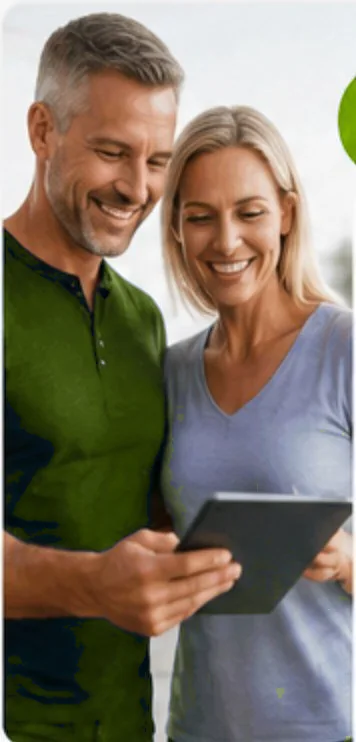
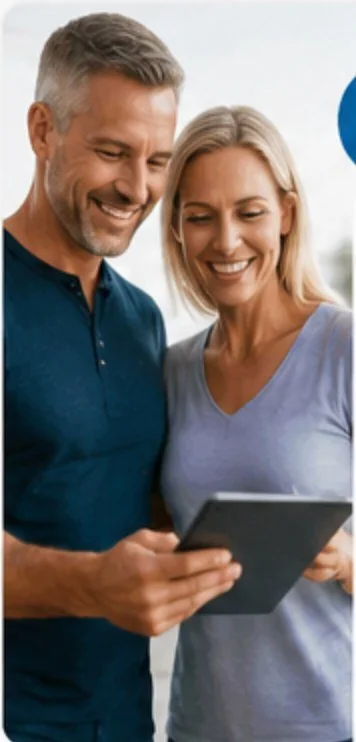
Homepage round two: Defined imagery, EoS goal tiles, no member bonus
Hero and the "only as good as your body" panel now show members training
at a Defined Fitness club instead of the club wall and a cycle class. The
hero photo sits in the right of the frame, feathered into the dark ground,
and loads eagerly since it is the largest paint on the page.

How it Works: 01 uses the Apex doctor collage, 02 the Apex MD blood tubes,
04 the EoS trainer photo retitled "Train at Defined". Its description was
SPENGA's spin/strength/yoga class copy, which is wrong for Defined.

The goal tiles now mirror the EoS build — portrait lifestyle photos with
the product-bottle corner art — and the DF360 Member Bonus block is gone
from both renderings.

Green leftovers: the TRT hero was the SPENGA-green edit (replaced with the
red original from Apex Source Content), and the product composite carried
green capsules.

diff --git a/index.html b/index.html
@@ -13,12 +13,12 @@
 <meta property="og:title" content="Get more from every workout — Defined Fitness member health, powered by Apex MD">
 <meta property="og:description" content="Training is only half the equation. Book your full biomarker panel at your Defined Fitness club and get physician-guided care at exclusive Defined Fitness member pricing.">
 <meta property="og:url" content="https://df360.apexmd.com/">
-<meta property="og:image" content="https://df360.apexmd.com/img/df360/c1.webp">
+<meta property="og:image" content="https://df360.apexmd.com/img/df360/hero-woman.webp">
 <meta property="og:image:alt" content="A DF360 spin class in session">
 <meta name="twitter:card" content="summary_large_image">
 <meta name="twitter:title" content="Get more from every workout — Defined Fitness member health, powered by Apex MD">
 <meta name="twitter:description" content="Book your full biomarker panel at your Defined Fitness club. Physician-guided programs at exclusive Defined Fitness member pricing.">
-<meta name="twitter:image" content="https://df360.apexmd.com/img/df360/c1.webp">
+<meta name="twitter:image" content="https://df360.apexmd.com/img/df360/hero-woman.webp">
 <link rel="preconnect" href="https://fonts.googleapis.com">
 <link rel="preconnect" href="https://fonts.gstatic.com" crossorigin>
 <link rel="stylesheet" href="https://fonts.googleapis.com/css2?family=Archivo:wght@400;500;600;700;800&display=swap">
@@ -53,8 +53,8 @@ height="0" width="0" style="display:none;visibility:hidden"></iframe></noscript>
         </div>
 
         <div style="position:relative;min-height:760px;background:#101010;overflow:hidden">
-          <div style="position:absolute;inset:0">
-            <img src="img/df360/c1.webp" alt="The Defined Fitness club wall" style="width:100%;height:100%;filter:contrast(1.06) saturate(1.02) brightness(.64);object-fit:cover" loading="lazy" decoding="async" width="1254" height="1254">
+          <div style="position:absolute;top:0;bottom:0;right:0;left:28%;-webkit-mask-image:linear-gradient(90deg,transparent 0,#000 26%);mask-image:linear-gradient(90deg,transparent 0,#000 26%)">
+            <img src="img/df360/hero-woman.webp" alt="A member training at Defined Fitness" style="width:100%;height:100%;object-position:50% 62%;filter:contrast(1.06) saturate(1.02) brightness(.64);object-fit:cover" loading="eager" fetchpriority="high" decoding="async" width="1254" height="1254">
           </div>
           <div style="position:absolute;inset:0;background:linear-gradient(90deg,rgba(8,10,12,.86) 0%,rgba(8,10,12,.64) 46%,rgba(8,10,12,.04) 100%);pointer-events:none"></div>
           <div style="position:relative;padding:72px 64px 68px;max-width:900px;color:#F5F2ED">
@@ -115,7 +115,7 @@ height="0" width="0" style="display:none;visibility:hidden"></iframe></noscript>
 
         <!-- then, the problem -->
         <div style="position:relative;background:#101010;color:#F5F2ED;border-top:2px solid var(--color-divider);overflow:hidden">
-          <img src="img/df360/c7.webp" alt="A cycle class at Defined Fitness" style="position:absolute;inset:0;width:100%;height:100%;object-fit:cover;object-position:72% 40%" loading="lazy" decoding="async" width="1200" height="1200">
+          <img src="img/df360/woman-trainer.webp" alt="A member training with a coach at Defined Fitness" style="position:absolute;inset:0;width:100%;height:100%;object-fit:cover;object-position:78% 35%" loading="lazy" decoding="async" width="1200" height="1200">
           <div style="position:absolute;inset:0;background:linear-gradient(90deg,#101010 0%,#101010 40%,rgba(13,16,19,.58) 52%,rgba(13,16,19,0) 66%)"></div>
           <div style="position:relative;padding:64px 64px 60px;max-width:56%">
             <span style="display:block;font-size:13px;font-weight:800;letter-spacing:.16em;text-transform:uppercase;color:#FF3B4A;margin-bottom:8px">Then — the problem</span>
@@ -320,53 +320,6 @@ height="0" width="0" style="display:none;visibility:hidden"></iframe></noscript>
               </div>
             </div>
           </div>
-        </div><div style="padding:76px 64px 72px;background:#010409;color:#F5F2ED;border-top:2px solid var(--color-divider)">
-          <div style="display:grid;grid-template-columns:minmax(0,1fr) minmax(0,1.15fr);gap:56px;align-items:start">
-            <div style="position:relative;padding-bottom:24px">
-              <img src="img/product/phone-biomarkers.webp" alt="Apex MD member portal" style="position:absolute;right:-16px;bottom:0;width:46%;height:auto;z-index:0;pointer-events:none" loading="lazy" decoding="async" width="715" height="900">
-              <div style="position:relative;z-index:1;max-width:56%"><img src="img/df360/logo-df360-white.webp" alt="DF360" style="display:block;width:100%;max-width:260px;height:auto;margin-bottom:26px" loading="lazy" decoding="async" width="600" height="66">
-              <span style="display:block;font-size:12px;font-weight:800;letter-spacing:.16em;text-transform:uppercase;color:#DE192C;margin-bottom:12px">Special bonus</span>
-              <h2 style="margin:0 0 20px;font-size:48px;font-weight:800;line-height:1.02;letter-spacing:-.03em;text-transform:uppercase">DF360<br>Member<br><span style="color:#DE192C">Bonus</span></h2>
-              <p style="margin:0 0 30px;font-size:18px;line-height:1.55;color:#D9D9D9">An AI-powered portal and a medical concierge specialist, together — to answer your questions and guide you to the right wellness solution.</p>
-              <a href="https://formdefined.apexmd.com/?categoryId=bloodwork" data-intake="body-scan" class="btn btn-primary" style="min-height:52px;padding:0 26px;font-size:16px">Claim the member bonus →</a>
-              <p style="margin:16px 0 0;font-size:13px;color:#8C8C8C">Exclusive bonus for Defined Fitness members.</p>
-              </div>
-            </div>
-            <div style="display:grid;grid-template-columns:1fr 1fr;gap:18px">
-              <div style="position:relative;background:#010409;border:2px solid #1A1A1A;overflow:hidden;min-height:300px">
-                <img src="img/product/phone-biomarkers.webp" alt="The Apex MD biomarker dashboard on a phone" style="position:absolute;right:0;top:0;height:100%;width:52%;object-fit:cover;object-position:center" loading="lazy" decoding="async" width="522" height="750">
-                <div style="position:relative;padding:26px 24px;display:flex;flex-direction:column;gap:12px;max-width:58%">
-                  <span style="font-size:19px;font-weight:800;letter-spacing:-.02em;color:#DE192C;font-variant-numeric:tabular-nums">01</span>
-                  <span style="font-size:20px;font-weight:800;letter-spacing:-.02em;line-height:1.2;color:#F5F2ED">AI-powered portal</span>
-                  <span style="font-size:14.5px;line-height:1.55;color:#D9D9D9">Ask a question and get an answer in real time, built on what your own labs and history show.</span>
-                </div>
-              </div>
-              <div style="position:relative;background:#010409;border:2px solid #1A1A1A;overflow:hidden;min-height:300px">
-                <img src="img/df360/c6-visit.webp" alt="A telehealth visit with an Apex MD provider" style="position:absolute;right:0;top:0;height:100%;width:52%;object-fit:cover;object-position:center" loading="lazy" decoding="async" width="522" height="750">
-                <div style="position:relative;padding:26px 24px;display:flex;flex-direction:column;gap:12px;max-width:58%">
-                  <span style="font-size:19px;font-weight:800;letter-spacing:-.02em;color:#DE192C;font-variant-numeric:tabular-nums">02</span>
-                  <span style="font-size:20px;font-weight:800;letter-spacing:-.02em;line-height:1.2;color:#F5F2ED">Medical concierge specialist</span>
-                  <span style="font-size:14.5px;line-height:1.55;color:#D9D9D9">A real person who answers questions and points you to the right wellness solution.</span>
-                </div>
-              </div>
-              <div style="position:relative;background:#010409;border:2px solid #1A1A1A;overflow:hidden;min-height:300px">
-                <img src="img/df360/collection-kit.webp" alt="Apex MD blood collection kit" style="position:absolute;right:0;top:0;height:100%;width:52%;object-fit:cover;object-position:center" loading="lazy" decoding="async" width="522" height="766">
-                <div style="position:relative;padding:26px 24px;display:flex;flex-direction:column;gap:12px;max-width:58%">
-                  <span style="font-size:19px;font-weight:800;letter-spacing:-.02em;color:#DE192C;font-variant-numeric:tabular-nums">03</span>
-                  <span style="font-size:20px;font-weight:800;letter-spacing:-.02em;line-height:1.2;color:#F5F2ED">Upload your bloodwork</span>
-                  <span style="font-size:14.5px;line-height:1.55;color:#D9D9D9">Add labs and medical history to the portal and get answers about what they mean.</span>
-                </div>
-              </div>
-              <div style="position:relative;background:#010409;border:2px solid #1A1A1A;overflow:hidden;min-height:300px">
-                <img src="img/df360/a9-kitchen.webp" alt="Planning meals at home" style="position:absolute;right:0;top:0;height:100%;width:52%;object-fit:cover;object-position:center" loading="lazy" decoding="async" width="522" height="766">
-                <div style="position:relative;padding:26px 24px;display:flex;flex-direction:column;gap:12px;max-width:58%">
-                  <span style="font-size:19px;font-weight:800;letter-spacing:-.02em;color:#DE192C;font-variant-numeric:tabular-nums">04</span>
-                  <span style="font-size:20px;font-weight:800;letter-spacing:-.02em;line-height:1.2;color:#F5F2ED">Action plans</span>
-                  <span style="font-size:14.5px;line-height:1.55;color:#D9D9D9">Fitness, supplementation and nutrition plans that come back to you, not a generic template.</span>
-                </div>
-              </div>
-            </div>
-          </div>
         </div>
 
         <!-- the path -->
@@ -376,7 +329,7 @@ height="0" width="0" style="display:none;visibility:hidden"></iframe></noscript>
           
           <h2 style="margin:0 auto 48px;text-align:center;font-size:52px;font-weight:800;line-height:1.03;letter-spacing:-.03em;text-transform:uppercase;max-width:34ch">How it Works</h2><div style="display:grid;grid-template-columns:1fr auto 1fr auto 1fr auto 1fr auto 1fr;gap:0 20px;align-items:start;padding-top:26px;border-top:2px solid var(--color-divider)">
               <div style="display:flex;flex-direction:column;gap:12px">
-                <img src="img/df360/collection-kit.webp" alt="Apex MD blood collection kit" style="display:block;width:100%;height:150px;object-fit:cover;margin-bottom:4px" loading="lazy" decoding="async" width="1200" height="785">
+                <img src="img/hp/step-collage.webp" alt="Apex MD physicians, products and the member portal" style="display:block;width:100%;height:150px;object-fit:cover;object-position:50% 40%;margin-bottom:4px" loading="lazy" decoding="async" width="1200" height="785">
                 <span style="font-size:12px;font-weight:800;letter-spacing:.14em;text-transform:uppercase;color:#DE192C">01 — TEST &amp; OR ORDER&nbsp;</span>
                 <span style="display:block;width:30px;height:4px;background:#DE192C"></span>
                 <span style="font-size:21px;font-weight:800;letter-spacing:-.02em;line-height:1.2">Purchase Apex MD Product or Service&nbsp;</span><span style="font-size:14.5px;line-height:1.55;color:#3A3A3A">Purchase peptides and or labs&nbsp; for testosterone, hormones or health optimization</span>
@@ -384,7 +337,7 @@ height="0" width="0" style="display:none;visibility:hidden"></iframe></noscript>
               </div>
 <div style="display:flex;align-items:center;justify-content:center;padding-top:198px"><svg width="26" height="26" viewBox="0 0 24 24" fill="none" stroke="#DE192C" stroke-width="2.4" stroke-linecap="round" stroke-linejoin="round"><path d="M4 12h15M13 6l6 6-6 6"></path></svg></div>
               <div style="display:flex;flex-direction:column;gap:12px">
-                <img src="img/df360/a6-labs.webp" alt="Bloodwork reviewed by a clinician" style="display:block;width:100%;height:150px;object-fit:cover;object-position:50% 35%;margin-bottom:4px" loading="lazy" decoding="async" width="1264" height="848">
+                <img src="img/hp/blood-tubes.webp" alt="Apex MD bloodwork tubes" style="display:block;width:100%;height:150px;object-fit:cover;object-position:50% 55%;background:#000;margin-bottom:4px" loading="lazy" decoding="async" width="1264" height="848">
                 <span style="font-size:12px;font-weight:800;letter-spacing:.14em;text-transform:uppercase;color:#DE192C">02 — Measure</span>
                 <span style="display:block;width:30px;height:4px;background:#DE192C"></span>
                 <span style="font-size:21px;font-weight:800;letter-spacing:-.02em;line-height:1.2">Baseline Bloodwork</span><span style="font-size:14.5px;line-height:1.55;color:#3A3A3A">A full biomarker panel so your provider can see what to change, and you get a baseline to measure against.</span>
@@ -400,11 +353,11 @@ height="0" width="0" style="display:none;visibility:hidden"></iframe></noscript>
               </div>
 <div style="display:flex;align-items:center;justify-content:center;padding-top:198px"><svg width="26" height="26" viewBox="0 0 24 24" fill="none" stroke="#DE192C" stroke-width="2.4" stroke-linecap="round" stroke-linejoin="round"><path d="M4 12h15M13 6l6 6-6 6"></path></svg></div>
               <div style="display:flex;flex-direction:column;gap:12px">
-                <img src="img/df360/c1.webp" alt="Training at Defined Fitness" style="display:block;width:100%;height:150px;object-fit:cover;margin-bottom:4px" loading="lazy" decoding="async" width="1254" height="1254">
+                <img src="img/hp/step-train.webp" alt="A trainer coaching a member through a lat pulldown" style="display:block;width:100%;height:150px;object-fit:cover;object-position:50% 30%;margin-bottom:4px" loading="lazy" decoding="async" width="1254" height="1254">
                 <span style="font-size:12px;font-weight:800;letter-spacing:.14em;text-transform:uppercase;color:#DE192C">04 — Train</span>
                 <span style="display:block;width:30px;height:4px;background:#DE192C"></span>
-                <span style="font-size:21px;font-weight:800;letter-spacing:-.02em;line-height:1.2">Train at DF360</span>
-                <span style="font-size:14.5px;line-height:1.55;color:#3A3A3A">Spin, strength and yoga in 60 minutes, coached and heart-rate tracked&nbsp;</span>
+                <span style="font-size:21px;font-weight:800;letter-spacing:-.02em;line-height:1.2">Train at Defined</span>
+                <span style="font-size:14.5px;line-height:1.55;color:#3A3A3A">Coached training at your Defined Fitness club, built around your plan.</span>
               </div>
 <div style="display:flex;align-items:center;justify-content:center;padding-top:198px"><svg width="26" height="26" viewBox="0 0 24 24" fill="none" stroke="#DE192C" stroke-width="2.4" stroke-linecap="round" stroke-linejoin="round"><path d="M4 12h15M13 6l6 6-6 6"></path></svg></div>
               <div style="display:flex;flex-direction:column;gap:12px">
@@ -437,9 +390,9 @@ height="0" width="0" style="display:none;visibility:hidden"></iframe></noscript>
           <div style="display:grid;grid-template-columns:repeat(3,minmax(0,1fr));gap:24px">
             
               <div style="position:relative;display:grid;grid-template-columns:minmax(0,40%) minmax(0,1fr);background:var(--color-surface);border:2px solid var(--color-divider);min-height:340px">
-                <img src="img/df360/c7-solo-b.webp" alt="Lose weight" style="display:block;width:100%;height:100%;object-fit:cover" loading="lazy" decoding="async" width="1024" height="1024">
+                <img src="img/hp/goal-lose.webp" alt="Lose weight" style="display:block;width:100%;height:100%;object-fit:cover" loading="lazy" decoding="async" width="410" height="742">
                 
-                  <img src="img/product/glp1.webp" alt="Apex MD GLP-1/GIP" style="position:absolute;top:12px;right:12px;height:56px;max-width:44%;width:auto;object-fit:contain;object-position:right top;pointer-events:none" loading="lazy" decoding="async" width="360" height="360">
+                  <img src="img/hp/goal-glp1-bottles.webp" alt="" style="position:absolute;top:12px;right:12px;height:56px;max-width:44%;width:auto;object-fit:contain;object-position:right top;pointer-events:none" loading="lazy" decoding="async" width="515" height="520">
                 
                 <div style="position:relative;padding:30px 26px 26px 26px;display:flex;flex-direction:column;gap:11px">
                   <span style="position:absolute;top:26px;left:-25px;width:50px;height:50px;border-radius:50%;background:var(--color-accent);display:flex;align-items:center;justify-content:center">
@@ -454,7 +407,7 @@ height="0" width="0" style="display:none;visibility:hidden"></iframe></noscript>
               </div>
             
               <div style="position:relative;display:grid;grid-template-columns:minmax(0,40%) minmax(0,1fr);background:var(--color-surface);border:2px solid var(--color-divider);min-height:340px">
-                <img src="img/df360/a6-labs.webp" alt="Health optimization" style="display:block;width:100%;height:100%;object-fit:cover" loading="lazy" decoding="async" width="1264" height="848">
+                <img src="img/hp/goal-health.webp" alt="Health optimization" style="display:block;width:100%;height:100%;object-fit:cover" loading="lazy" decoding="async" width="356" height="742">
                 
                   <img src="img/hp/goal-health-corner.webp" alt="" style="position:absolute;top:12px;right:12px;height:56px;max-width:44%;width:auto;object-fit:contain;object-position:right top;pointer-events:none" loading="lazy" decoding="async" width="717" height="560">
                 
@@ -475,9 +428,9 @@ height="0" width="0" style="display:none;visibility:hidden"></iframe></noscript>
               </div>
             
               <div style="position:relative;display:grid;grid-template-columns:minmax(0,40%) minmax(0,1fr);background:var(--color-surface);border:2px solid var(--color-divider);min-height:340px">
-                <img src="img/df360/c7.webp" alt="Build muscle" style="display:block;width:100%;height:100%;object-fit:cover" loading="lazy" decoding="async" width="1200" height="1200">
+                <img src="img/hp/goal-muscle.webp" alt="Build muscle" style="display:block;width:100%;height:100%;object-fit:cover" loading="lazy" decoding="async" width="432" height="742">
                 
-                  <img src="img/product/sermorelin.webp" alt="Apex MD Sermorelin" style="position:absolute;top:12px;right:12px;height:56px;max-width:44%;width:auto;object-fit:contain;object-position:right top;pointer-events:none" loading="lazy" decoding="async" width="260" height="455">
+                  <img src="img/hp/goal-tesa-bottle.webp" alt="" style="position:absolute;top:12px;right:12px;height:56px;max-width:44%;width:auto;object-fit:contain;object-position:right top;pointer-events:none" loading="lazy" decoding="async" width="267" height="560">
                 
                 <div style="position:relative;padding:30px 26px 26px 26px;display:flex;flex-direction:column;gap:11px">
                   <span style="position:absolute;top:26px;left:-25px;width:50px;height:50px;border-radius:50%;background:var(--color-accent);display:flex;align-items:center;justify-content:center">
@@ -492,9 +445,9 @@ height="0" width="0" style="display:none;visibility:hidden"></iframe></noscript>
               </div>
             
               <div style="position:relative;display:grid;grid-template-columns:minmax(0,40%) minmax(0,1fr);background:var(--color-surface);border:2px solid var(--color-divider);min-height:340px">
-                <img src="img/df360/e6-trail.webp" alt="Energy and recovery" style="display:block;width:100%;height:100%;object-fit:cover" loading="lazy" decoding="async" width="1264" height="848">
+                <img src="img/hp/goal-energy.webp" alt="Energy and recovery" style="display:block;width:100%;height:100%;object-fit:cover" loading="lazy" decoding="async" width="410" height="776">
                 
-                  <img src="img/product/nad.webp" alt="Apex MD NAD+" style="position:absolute;top:12px;right:12px;height:56px;max-width:44%;width:auto;object-fit:contain;object-position:right top;pointer-events:none" loading="lazy" decoding="async" width="255" height="418">
+                  <img src="img/hp/goal-nad-bottles.webp" alt="" style="position:absolute;top:12px;right:12px;height:56px;max-width:44%;width:auto;object-fit:contain;object-position:right top;pointer-events:none" loading="lazy" decoding="async" width="568" height="560">
                 
                 <div style="position:relative;padding:30px 26px 26px 26px;display:flex;flex-direction:column;gap:11px">
                   <span style="position:absolute;top:26px;left:-25px;width:50px;height:50px;border-radius:50%;background:var(--color-accent);display:flex;align-items:center;justify-content:center">
@@ -509,9 +462,9 @@ height="0" width="0" style="display:none;visibility:hidden"></iframe></noscript>
               </div>
             
               <div style="position:relative;display:grid;grid-template-columns:minmax(0,40%) minmax(0,1fr);background:var(--color-surface);border:2px solid var(--color-divider);min-height:340px">
-                <img src="img/df360/a4-nad.webp" alt="Men's vitality" style="display:block;width:100%;height:100%;object-fit:cover" loading="lazy" decoding="async" width="1264" height="848">
+                <img src="img/hp/goal-men.webp" alt="Men's vitality" style="display:block;width:100%;height:100%;object-fit:cover" loading="lazy" decoding="async" width="356" height="776">
                 
-                  <img src="img/product/trt.webp" alt="Apex MD testosterone therapy options" style="position:absolute;top:12px;right:12px;height:56px;max-width:44%;width:auto;object-fit:contain;object-position:right top;pointer-events:none" loading="lazy" decoding="async" width="900" height="654">
+                  <img src="img/hp/goal-trt-bottles.webp" alt="" style="position:absolute;top:12px;right:12px;height:56px;max-width:44%;width:auto;object-fit:contain;object-position:right top;pointer-events:none" loading="lazy" decoding="async" width="560" height="503">
                 
                 <div style="position:relative;padding:30px 26px 26px 26px;display:flex;flex-direction:column;gap:11px">
                   <span style="position:absolute;top:26px;left:-25px;width:50px;height:50px;border-radius:50%;background:var(--color-accent);display:flex;align-items:center;justify-content:center">
@@ -526,9 +479,9 @@ height="0" width="0" style="display:none;visibility:hidden"></iframe></noscript>
               </div>
             
               <div style="position:relative;display:grid;grid-template-columns:minmax(0,40%) minmax(0,1fr);background:var(--color-surface);border:2px solid var(--color-divider);min-height:340px">
-                <img src="img/df360/a7-womens.webp" alt="Women's hormones" style="display:block;width:100%;height:100%;object-fit:cover" loading="lazy" decoding="async" width="928" height="1152">
+                <img src="img/hp/goal-women.webp" alt="Women's hormones" style="display:block;width:100%;height:100%;object-fit:cover" loading="lazy" decoding="async" width="432" height="776">
                 
-                  <img src="img/product/womens-hormones.webp" alt="Apex MD women's hormone therapy" style="position:absolute;top:12px;right:12px;height:56px;max-width:44%;width:auto;object-fit:contain;object-position:right top;pointer-events:none" loading="lazy" decoding="async" width="900" height="769">
+                  <img src="img/hp/goal-hrt-bottles.webp" alt="" style="position:absolute;top:12px;right:12px;height:56px;max-width:44%;width:auto;object-fit:contain;object-position:right top;pointer-events:none" loading="lazy" decoding="async" width="560" height="510">
                 
                 <div style="position:relative;padding:30px 26px 26px 26px;display:flex;flex-direction:column;gap:11px">
                   <span style="position:absolute;top:26px;left:-25px;width:50px;height:50px;border-radius:50%;background:var(--color-accent);display:flex;align-items:center;justify-content:center">
@@ -706,7 +659,7 @@ height="0" width="0" style="display:none;visibility:hidden"></iframe></noscript>
         </div>
 
         <div style="position:relative;height:320px;background:#101010;overflow:hidden">
-          <img src="img/df360/c1.webp" alt="The Defined Fitness club wall" style="width:100%;height:100%;filter:contrast(1.06) saturate(1.02) brightness(.58);object-fit:cover" loading="lazy" decoding="async" width="1254" height="1254">
+          <img src="img/df360/hero-woman.webp" alt="A member training at Defined Fitness" style="width:100%;height:100%;object-position:48% 78%;filter:contrast(1.06) saturate(1.02) brightness(.58);object-fit:cover" loading="eager" fetchpriority="high" decoding="async" width="1254" height="1254">
           <div style="position:absolute;inset:0;background:linear-gradient(180deg,rgba(8,10,12,.5) 0%,rgba(8,10,12,.95) 76%);pointer-events:none"></div>
           <div style="position:absolute;left:18px;top:18px;color:#F5F2ED">
             <div style="display:flex;align-items:center;gap:14px;margin-bottom:0px">
@@ -827,7 +780,7 @@ height="0" width="0" style="display:none;visibility:hidden"></iframe></noscript>
 
         <div style="background:#101010;color:#F5F2ED">
           <div style="height:220px;position:relative">
-            <img src="img/df360/c7.webp" alt="A cycle class at Defined Fitness" style="display:block;width:100%;height:100%;object-fit:cover" loading="lazy" decoding="async" width="1200" height="1200">
+            <img src="img/df360/woman-trainer.webp" alt="A member training with a coach at Defined Fitness" style="display:block;width:100%;height:100%;object-fit:cover;object-position:62% 35%" loading="lazy" decoding="async" width="1200" height="1200">
             <div style="position:absolute;inset:0;background:linear-gradient(180deg,rgba(13,16,19,.1) 0%,#101010 92%)"></div>
           </div>
           <div style="padding:4px 18px 28px">
@@ -985,35 +938,7 @@ height="0" width="0" style="display:none;visibility:hidden"></iframe></noscript>
           <p style="margin:10px 0 0;text-align:center;font-size:11px;letter-spacing:.08em;text-transform:uppercase;color:#595959">Exclusive for Defined Fitness members</p>
         </div>
 
-        <div style="padding:30px 18px 28px;background:#101010;color:#F5F2ED">
-          <span style="display:block;font-size:11px;font-weight:800;letter-spacing:.16em;text-transform:uppercase;color:#FF3B4A;margin-bottom:10px">Special offer</span>
-          <h2 style="margin:0 0 14px;font-size:32px;font-weight:800;line-height:1.04;letter-spacing:-.03em;text-transform:uppercase">DF360 Member Bonus</h2>
-          <p style="margin:0 0 20px;font-size:15.5px;line-height:1.55;color:#D9D9D9">An AI-powered portal and a medical concierge specialist, together — to answer your questions and guide you to the right wellness solution.</p>
-          <div style="display:grid;gap:12px;margin-bottom:20px">
-              <div style="padding:16px 16px 18px;background:#1A1A1A;border:2px solid #242424;display:flex;flex-direction:column;gap:8px">
-                <span style="font-size:11px;font-weight:800;letter-spacing:.14em;color:#FF3B4A;font-variant-numeric:tabular-nums">01</span>
-                <span style="font-size:17px;font-weight:800;letter-spacing:-.02em;line-height:1.2;color:#F5F2ED">AI-powered portal</span>
-                <span style="font-size:13.5px;line-height:1.55;color:#D9D9D9">Ask a question and get an answer in real time, built on what your own labs and history show.</span>
-              </div>
-              <div style="padding:16px 16px 18px;background:#1A1A1A;border:2px solid #242424;display:flex;flex-direction:column;gap:8px">
-                <span style="font-size:11px;font-weight:800;letter-spacing:.14em;color:#FF3B4A;font-variant-numeric:tabular-nums">02</span>
-                <span style="font-size:17px;font-weight:800;letter-spacing:-.02em;line-height:1.2;color:#F5F2ED">Medical concierge specialist</span>
-                <span style="font-size:13.5px;line-height:1.55;color:#D9D9D9">A real person who answers questions and points you to the right wellness solution.</span>
-              </div>
-              <div style="padding:16px 16px 18px;background:#1A1A1A;border:2px solid #242424;display:flex;flex-direction:column;gap:8px">
-                <span style="font-size:11px;font-weight:800;letter-spacing:.14em;color:#FF3B4A;font-variant-numeric:tabular-nums">03</span>
-                <span style="font-size:17px;font-weight:800;letter-spacing:-.02em;line-height:1.2;color:#F5F2ED">Upload your bloodwork</span>
-                <span style="font-size:13.5px;line-height:1.55;color:#D9D9D9">Add labs and medical history to the portal and get answers about what they mean.</span>
-              </div>
-              <div style="padding:16px 16px 18px;background:#1A1A1A;border:2px solid #242424;display:flex;flex-direction:column;gap:8px">
-                <span style="font-size:11px;font-weight:800;letter-spacing:.14em;color:#FF3B4A;font-variant-numeric:tabular-nums">04</span>
-                <span style="font-size:17px;font-weight:800;letter-spacing:-.02em;line-height:1.2;color:#F5F2ED">Action plans</span>
-                <span style="font-size:13.5px;line-height:1.55;color:#D9D9D9">Fitness, supplementation and nutrition plans that come back to you, not a generic template.</span>
-              </div>
-          </div>
-          <a href="https://formdefined.apexmd.com/?categoryId=bloodwork" data-intake="body-scan" class="btn btn-primary btn-block" style="min-height:52px;font-size:15.5px;justify-content:flex-start;padding:0 20px">Claim the member offer →</a>
-          <p style="margin:12px 0 0;font-size:12px;color:#8C8C8C">Special rate for Defined Fitness members.</p>
-        </div>
+        
 
 
 
@@ -1023,7 +948,7 @@ height="0" width="0" style="display:none;visibility:hidden"></iframe></noscript>
           <h2 style="margin:0 0 24px;text-align:center;font-size:30px;font-weight:800;line-height:1.04;letter-spacing:-.03em;text-transform:uppercase">Five steps, <span style="color:#FF3B4A">start</span> to <span style="color:#FF3B4A">results</span>.</h2>
           <div style="display:grid;gap:14px">
             <div style="display:flex;flex-direction:column;gap:8px">
-              <img src="img/df360/collection-kit.webp" alt="Apex MD blood collection kit" style="display:block;width:100%;height:120px;object-fit:cover;margin-bottom:2px" loading="lazy" decoding="async" width="1200" height="785">
+              <img src="img/hp/step-collage.webp" alt="Apex MD physicians, products and the member portal" style="display:block;width:100%;height:120px;object-fit:cover;object-position:50% 40%;margin-bottom:2px" loading="lazy" decoding="async" width="1200" height="785">
               <span style="font-size:11px;font-weight:800;letter-spacing:.14em;text-transform:uppercase;color:#DE192C">01 — Test</span>
               <span style="display:block;width:24px;height:3px;background:#DE192C"></span>
               <span style="font-size:18px;font-weight:800;letter-spacing:-.02em;line-height:1.2">Apex MD Labs + Physician Evaluation</span>
@@ -1031,7 +956,7 @@ height="0" width="0" style="display:none;visibility:hidden"></iframe></noscript>
             </div>
 <div style="display:flex;justify-content:center;padding:4px 0"><svg width="22" height="22" viewBox="0 0 24 24" fill="none" stroke="#DE192C" stroke-width="2.4" stroke-linecap="round" stroke-linejoin="round"><path d="M12 4v15M6 13l6 6 6-6"></path></svg></div>
             <div style="display:flex;flex-direction:column;gap:8px">
-              <img src="img/df360/a6-labs.webp" alt="Bloodwork reviewed by a clinician" style="display:block;width:100%;height:120px;object-fit:cover;object-position:50% 35%;margin-bottom:2px" loading="lazy" decoding="async" width="1264" height="848">
+              <img src="img/hp/blood-tubes.webp" alt="Apex MD bloodwork tubes" style="display:block;width:100%;height:120px;object-fit:cover;object-position:50% 55%;background:#000;margin-bottom:2px" loading="lazy" decoding="async" width="1264" height="848">
               <span style="font-size:11px;font-weight:800;letter-spacing:.14em;text-transform:uppercase;color:#DE192C">02 — Measure</span>
               <span style="display:block;width:24px;height:3px;background:#DE192C"></span>
               <span style="font-size:18px;font-weight:800;letter-spacing:-.02em;line-height:1.2">Baseline Bloodwork</span>
@@ -1047,11 +972,11 @@ height="0" width="0" style="display:none;visibility:hidden"></iframe></noscript>
             </div>
 <div style="display:flex;justify-content:center;padding:4px 0"><svg width="22" height="22" viewBox="0 0 24 24" fill="none" stroke="#DE192C" stroke-width="2.4" stroke-linecap="round" stroke-linejoin="round"><path d="M12 4v15M6 13l6 6 6-6"></path></svg></div>
             <div style="display:flex;flex-direction:column;gap:8px">
-              <img src="img/df360/c1.webp" alt="Training at Defined Fitness" style="display:block;width:100%;height:120px;object-fit:cover;margin-bottom:2px" loading="lazy" decoding="async" width="1254" height="1254">
+              <img src="img/hp/step-train.webp" alt="A trainer coaching a member through a lat pulldown" style="display:block;width:100%;height:120px;object-fit:cover;object-position:50% 30%;margin-bottom:2px" loading="lazy" decoding="async" width="1254" height="1254">
               <span style="font-size:11px;font-weight:800;letter-spacing:.14em;text-transform:uppercase;color:#DE192C">04 — Train</span>
               <span style="display:block;width:24px;height:3px;background:#DE192C"></span>
-              <span style="font-size:18px;font-weight:800;letter-spacing:-.02em;line-height:1.2">Train at DF360</span>
-              <span style="font-size:13.5px;line-height:1.55;color:#3A3A3A">Spin, strength and yoga in 60 minutes, coached and heart-rate tracked.</span>
+              <span style="font-size:18px;font-weight:800;letter-spacing:-.02em;line-height:1.2">Train at Defined</span>
+              <span style="font-size:13.5px;line-height:1.55;color:#3A3A3A">Coached training at your Defined Fitness club, built around your plan.</span>
             </div>
 <div style="display:flex;justify-content:center;padding:4px 0"><svg width="22" height="22" viewBox="0 0 24 24" fill="none" stroke="#DE192C" stroke-width="2.4" stroke-linecap="round" stroke-linejoin="round"><path d="M12 4v15M6 13l6 6 6-6"></path></svg></div>
             <div style="display:flex;flex-direction:column;gap:8px">
